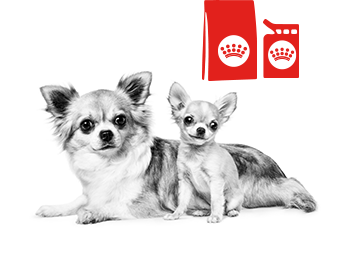
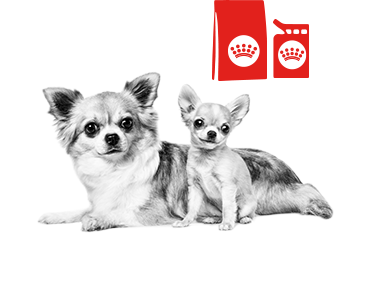
fix: style and meta images

diff --git a/client/src/pages/fk-landing.vue b/client/src/pages/fk-landing.vue
@@ -95,7 +95,6 @@
         )
 
     .fk-container
-      .fk-l-halo 
       .fk-l-suggest__principle
         .fk-l-suggest__title-wrapper
           .fk-l-suggest__avator-wrapper
@@ -162,7 +161,8 @@ export default {
   .fk-bg {
     position: absolute;
 
-    .fk-bg__floor, .fk-bg__front {
+    .fk-bg__floor,
+    .fk-bg__front {
       bottom: 0;
     }
   }
@@ -173,7 +173,7 @@ export default {
   min-height: 65vh;
   display: flex;
   align-items: flex-end;
-  padding:  0 0 $spacing-8 0;
+  padding: 0 0 $spacing-8 0;
   box-sizing: border-box;
   background-color: $white;
 
@@ -194,7 +194,7 @@ export default {
   &__hero {
     position: relative;
     width: 100%;
-    padding-bottom: 65%;
+    padding-bottom: 70%;
   }
 
   &__pic-wrapper {
@@ -202,7 +202,7 @@ export default {
     z-index: 2;
     left: 50%;
     top: 0;
-    width: 80%;
+    width: 100%;
     margin: 0 auto;
     transform: translateX(-50%);
   }
@@ -213,6 +213,7 @@ export default {
     left: 50%;
     bottom: 0;
     width: 120%;
+    text-align: center;
     transform: translateX(-50%);
   }
 
@@ -259,8 +260,10 @@ export default {
 .fk-l-start {
   position: relative;
 
-  @include rwd-max(xs) {
-    padding-bottom: 172px;
+  &.fk-section {
+    @include rwd-max(xs) {
+      padding-bottom: 172px;
+    }
   }
 
   &__bg,
@@ -437,7 +440,6 @@ export default {
   background-color: $white;
   background-image: url('~@/assets/img/landing/bg_brick.png');
   background-repeat: round;
-  padding-bottom: 280px;
   overflow: hidden;
 
   @include rwd-min(sm) {
@@ -447,6 +449,18 @@ export default {
 
   @include rwd-min(md) {
     padding-bottom: 360px;
+  }
+
+  &.fk-section {
+    padding-bottom: 280px;
+
+    @include rwd-min(sm) {
+      padding-bottom: 400px;
+    }
+
+    @include rwd-min(md) {
+      padding-bottom: 360px;
+    }
   }
 
   &__principle {
@@ -615,10 +629,6 @@ export default {
     @media screen and (min-width: 1800px) {
       right: 10%;
     }
-
-    /* img {
-      height: 750px;
-    } */
   }
 
   .btn-arrow {

diff --git a/client/public/sharing.php b/client/public/sharing.php
@@ -69,7 +69,7 @@ $errors = $response["response"]["errors"];
   <meta name="viewport" content="width=device-width, initial-scale=1.0">
   <meta property="og:title" content="<?= $title ?>" />
   <meta property="og:url" content="<?= $ogUrl ?>" />
-  <meta property="og:image" content="https://event.udn.com/royalcanin2022/assets/img/og_<?= $category . $level ?>.png" />
+  <meta property="og:image" content="https://event.udn.com/royalcanin2022/assets/img/meta<?= $category . $level ?>.png" />
   <meta property="og:image:width" content="1200">
   <meta property="og:image:height" content="630">
   <meta property="og:description" content="參加活動就有機會拿3個月份寵物飼料。你也一起來挑戰看看吧！" />
